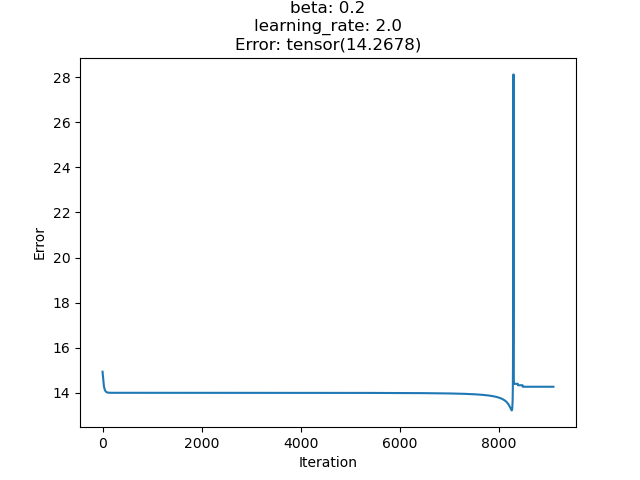
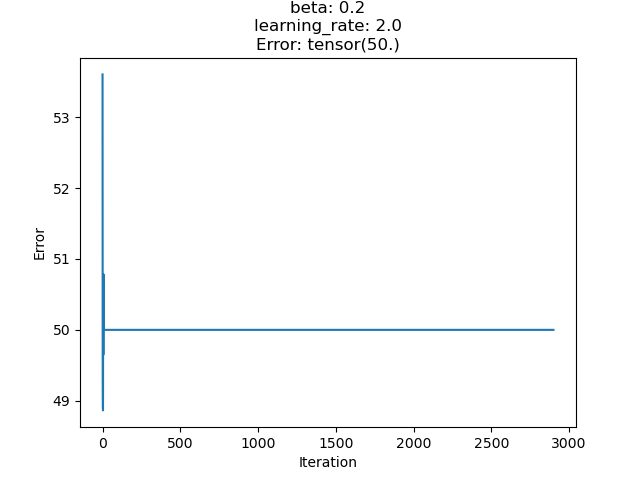
adds mnist stuff, but not working on mnist yet

diff --git a/main.py b/main.py
@@ -5,8 +5,12 @@ from utils import HopfieldEnergy, HopfieldUpdate
 import torch
 import argparse
 import matplotlib.pyplot as plt
+import matplotlib.cm as cm
 import torchvision
 import torchvision.transforms as transforms
+from sklearn.manifold import TSNE
+import numpy as np
+from sklearn.manifold import TSNE
 
 parser = argparse.ArgumentParser()
 parser.add_argument("--input-size", type=int, default=50, help="Size of the input")
@@ -15,20 +19,16 @@ parser.add_argument("--hidden2-size", type=int, default=100, help="Size of the s
 parser.add_argument("--output-size", type=int, default=15, help="Size of the output")
 parser.add_argument("--free-steps", type=int, default=40, help="Number of free optimization steps")
 parser.add_argument("--nudge-steps", type=int, default=5, help="Number of nudge optimization steps")
-parser.add_argument("--learning-rate", type=float, default=15.0, help="Learning rate for optimization")
-parser.add_argument("--beta", type=float, default=4.0, help="Beta value for weight updates")
+parser.add_argument("--learning-rate", type=float, default=1.0, help="Learning rate for optimization")
+parser.add_argument("--beta", type=float, default=1.0, help="Beta value for weight updates")
 parser.add_argument("--batch-dim", type=int, default=15, help="Batch dimension")
 parser.add_argument("--n-iters", type=int, default=3000, help="Number of iterations for optimization")
 parser.add_argument("--seed", type=int, default=0, help="Random seed")
 parser.add_argument("--init", type=str, default="random", help="Initialization method for weights")
 parser.add_argument("--dataset", type=str, default="mnist", help="Dataset to use")
+parser.add_argument("--mr", type=float, default=0.1, help="Energy minimization rate")
 args = parser.parse_args()
 
-if args.dataset == "mnist":
-    # Load the MNIST dataset
-    transform = transforms.Compose([transforms.ToTensor(), transforms.Lambda(lambda x: x.view(-1))])
-    trainset = torchvision.datasets.MNIST(root='~/datasets', train=True, download=True, transform=transform)
-    trainloader = torch.utils.data.DataLoader(trainset, batch_size=4, shuffle=True, num_workers=2)
 
 input_size = args.input_size
 hidden1_size = args.hidden1_size
@@ -36,19 +36,34 @@ hidden2_size = args.hidden2_size
 output_size = args.output_size
 free_steps = args.free_steps
 nudge_steps = args.nudge_steps
-learning_rate = args.learning_rate
-beta = args.beta
+learning_rate = args.learning_rate # 1 - 200
+beta = args.beta # 1-40
 batch_dim = args.batch_dim
 n_iters = args.n_iters
+mr = args.mr #0.1
+
+if args.dataset == "mnist":
+    # Load the MNIST dataset
+    transform = transforms.Compose([transforms.ToTensor(), transforms.Lambda(lambda x: x.view(-1))])
+    trainset = torchvision.datasets.MNIST(root='~/datasets', train=True, download=True, transform=transform)
+    trainloader = torch.utils.data.DataLoader(trainset, batch_size=batch_dim, shuffle=True, num_workers=2)
+    testset = torchvision.datasets.MNIST(root='~/datasets', train=False, download=True, transform=transform)
+    testloader = torch.utils.data.DataLoader(testset, batch_size=batch_dim, shuffle=False, num_workers=2)
 
 # Define the fixed random input x
-x = torch.randn(batch_dim,input_size)
-# x = (torch.rand(batch_dim,input_size)<0.02).float()*torch.randn(batch_dim,input_size)
-target = torch.zeros(batch_dim,output_size)
-for idx in range(batch_dim):
-    target[idx,idx]=1
-# print(target)
-# assert(0)
+if args.dataset == "random":
+    x = torch.randn(batch_dim,input_size)
+    t = torch.tensor([i%output_size for i in range(batch_dim)],dtype=torch.long)
+elif args.dataset == "mnist":
+    for batch in trainloader: # Get one MNIST batch
+        x,t = batch
+        break
+else:
+    raise ValueError("Invalid dataset")
+
+target = torch.nn.functional.one_hot(t, num_classes=output_size)
+
+
 
 # Define the optimizer
 
@@ -57,16 +72,21 @@ model = HopfieldEnergy(input_size, hidden1_size, hidden2_size, output_size, beta
 
 
 # Optimization loop
+print("\n\n")
 print("beta: ",beta)
 print("learning_rate: ",learning_rate)
 error = []
 
-# for itr,batch in enumerate(trainloader):
-#     data = batch[0]
+###############
+# Training loop
+###############
+
+for itr in range(n_iters): # Random
+
+# for itr,batch in enumerate(trainloader): # MNIST
+#     x = batch[0]
 #     target = torch.nn.functional.one_hot(batch[1], num_classes=10)
 
-
-for itr in range(n_iters):
     energies = []  # List to store the energy values
 
     # Initialize internal state variables
@@ -81,7 +101,7 @@ for itr in range(n_iters):
     else:
         raise ValueError("Invalid initialization method")
 
-    optimizer = optim.SGD([h1, h2, y], lr=0.1)
+    optimizer = optim.SGD([h1, h2, y], lr=mr)
 
     for step in range(free_steps):
         optimizer.zero_grad()
@@ -102,9 +122,13 @@ for itr in range(n_iters):
     h2_free = h2.detach().clone()
     y_free = y.detach().clone()
 
-    if (itr+1)%(n_iters//20) == 0:
+
+    if (itr+1)%(n_iters//5) == 0:
+        print("Iteration: ",itr+1)
         # print("Output: ",y_free)
         print("Error: ",(y_free-target).pow(2).sum())
+        prediction = torch.argmax(y_free, dim=1)
+        print("Accuracy: ",torch.mean((prediction==t).float()))
 
     error.append((y_free-target).pow(2).sum())
 
@@ -144,22 +168,83 @@ for itr in range(n_iters):
     model.b2.weight.data += learning_rate * b2_update
     model.b3.weight.data += learning_rate * b3_update
 
-    # if itr%100==0:
-    #     # Plot the energies
-    #     plt.plot(energies,label=str(itr))
-    #     plt.xlabel('Step')
-    #     plt.ylabel('Energy')
-    #     plt.title('Energy vs. Step')
-    #     plt.legend()
-    #     plt.savefig('energy_vs_step.png')
+    if itr%100==0:
+        # Plot the energies
+        plt.plot(energies,label=str(itr))
+        plt.xlabel('Step')
+        plt.ylabel('Energy')
+        plt.title('Energy vs. Step')
+        plt.legend()
+        plt.savefig('energy_vs_step.png')
 
-    #     # Plot the error
-    #     plt.figure()
-    #     plt.plot(error)
-    #     plt.xlabel('Iteration')
-    #     plt.ylabel('Error')
-    #     plt.title('Error vs. Iteration\nbeta: '+str(beta)+'\nlearning_rate: '+str(learning_rate)+'\nError: '+str(error[-1]))
-    #     plt.savefig('error_vs_iteration_beta_'+str(beta)+'_lr_'+str(learning_rate)+'.png')
-    #     plt.close()
+        # Plot the error
+        plt.figure()
+        plt.plot(error)
+        plt.xlabel('Iteration')
+        plt.ylabel('Error')
+        plt.title('Error vs. Iteration\nbeta: '+str(beta)+'\nlearning_rate: '+str(learning_rate)+'\nError: '+str(error[-1]))
+        plt.savefig('error_vs_iteration_beta_'+str(beta)+'_lr_'+str(learning_rate)+'.png')
+        plt.close()
             
-        
+######################################################################################################
+# Generate random batch of points
+n_samples = 100
+
+x_test = x.repeat(n_samples,1).clone()
+# target_test = target.repeat(n_samples,1)
+
+h1 = torch.rand(batch_dim*n_samples, hidden1_size, requires_grad=True)
+h2 = torch.rand(batch_dim*n_samples, hidden2_size, requires_grad=True)
+y = torch.rand(batch_dim*n_samples, output_size, requires_grad=True)
+
+optimizer = optim.SGD([h1, h2, y], lr=mr)
+
+for step in range(free_steps):
+    optimizer.zero_grad()
+    energy = model(x_test, h1, h2, y)
+    energy.backward()
+    optimizer.step()
+
+    # Restrict values between 0 and 1
+    h1.data = torch.clamp(h1.data, 0, 1)
+    h2.data = torch.clamp(h2.data, 0, 1)
+    y.data = torch.clamp(y.data, 0, 1)
+
+    energies.append(energy.item())  # Save the energy value
+    # print(f'Step {step}, Energy: {energy.item()}')
+
+# Save copy of the internal state variables
+h1_free = h1.detach().clone()
+h2_free = h2.detach().clone()
+y_free = y.detach().clone()
+
+# print(y_free)
+
+# t-SNE plot to visualize clusters in h1_free
+colors = [t[i % batch_dim] for i in range(batch_dim * n_samples)]  # Example color vector
+cmap = cm.get_cmap('viridis')
+s, alpha = 2, 0.02
+
+X_embedded_h1 = TSNE(n_components=2).fit_transform(h1_free.numpy())
+plt.subplot(1, 3, 1)
+plt.scatter(X_embedded_h1[:, 0], X_embedded_h1[:, 1], c=colors, s=s, alpha=alpha, cmap=cmap)
+plt.title('hidden 1')
+plt.gca().set_aspect('equal')
+
+# t-SNE plot to visualize clusters in h2_free
+X_embedded_h2 = TSNE(n_components=2).fit_transform(h2_free.numpy())
+plt.subplot(1, 3, 2)
+plt.scatter(X_embedded_h2[:, 0], X_embedded_h2[:, 1], c=colors, s=s, alpha=alpha, cmap=cmap)
+plt.title('hidden 2')
+plt.gca().set_aspect('equal')
+
+# t-SNE plot to visualize clusters in y_free
+X_embedded_y = TSNE(n_components=2).fit_transform(y_free.numpy())
+plt.subplot(1, 3, 3)
+plt.scatter(X_embedded_y[:, 0], X_embedded_y[:, 1], c=colors, s=s, alpha=alpha, cmap=cmap)
+plt.title('output')
+plt.gca().set_aspect('equal')
+
+plt.tight_layout()
+plt.figure(figsize=(10, 6))  # Adjust the figure size
+plt.savefig('clusters.png')

diff --git a/utils.py b/utils.py
@@ -21,33 +21,58 @@ class HopfieldEnergy(nn.Module):
 
         self.beta = beta
 
-        self.F = nn.MSELoss()
+        # self.F = nn.MSELoss()
 
+
+    # def forward(self, x, h1, h2, y, target=None): # Testing
+
+    #     # Hopfield energy (layered)
+    #     # energy1 = -(x @ self.w1 @ h1.t() + self.b1 @ h1.t()) 
+    #     # energy2 = -(h1 @ self.w2 @ h2.t() + self.b2 @ h2.t())
+    #     # energy3 = -(h2 @ self.w3 @ y.t() + self.b3 @ y.t())
+
+    #     energy1 = (-self.w1(x, h1) - self.b1(h1)).squeeze()
+    #     energy2 = (-self.w2(h1, h2) - self.b2(h2)).squeeze()
+    #     energy3 = (-self.w3(h2, y) - self.b3(y)).squeeze()
+
+    #     print(energy1.shape)
+    #     print(energy2.shape)
+    #     print(energy3.shape)
+    #     # L2 penalty
+    #     l2 = h1.pow(2).sum(dim=1) + h2.pow(2).sum(dim=1) + y.pow(2).sum()
+    #     # l2 = h1.pow(2).sum() + h2.pow(2).sum() + y.pow(2).sum() # Old version
+    #     print(l2.shape)
+    #     # Total energy
+    #     E = energy1 + energy2 + energy3 + 10*l2
+    #     print(E.shape)
+    #     # Nudge energy
+    #     if target is not None:
+    #         F = 10*self.beta*0.5*(y-target).pow(2).sum() #self.F(y, target)
+    #         E += F
+    #     print(E.shape)
+    #     assert(0)
+    #     return E.sum() #E.mean() # 
 
     def forward(self, x, h1, h2, y, target=None):
 
         # Hopfield energy (layered)
-        # energy1 = -(x @ self.w1 @ h1.t() + self.b1 @ h1.t()) 
-        # energy2 = -(h1 @ self.w2 @ h2.t() + self.b2 @ h2.t())
-        # energy3 = -(h2 @ self.w3 @ y.t() + self.b3 @ y.t())
+        energy1 = (-self.w1(x, h1) - self.b1(h1)).squeeze()
+        energy2 = (-self.w2(h1, h2) - self.b2(h2)).squeeze()
+        energy3 = (-self.w3(h2, y) - self.b3(y)).squeeze()
 
-        energy1 = -self.w1(x, h1) - self.b1(h1)
-        energy2 = -self.w2(h1, h2) - self.b2(h2)
-        energy3 = -self.w3(h2, y) - self.b3(y)
-
-        
         # L2 penalty
-        l2 = h1.pow(2).sum() + h2.pow(2).sum() + y.pow(2).sum()
+        l2 = h1.pow(2).sum(dim=1) + h2.pow(2).sum(dim=1) + y.pow(2).sum(dim=1)
+        # l2 = h1.pow(2).sum() + h2.pow(2).sum() + y.pow(2).sum() # Old version
 
         # Total energy
-        E = energy1 + energy2 + energy3 + l2
+        E = energy1 + energy2 + energy3 + 0.5*l2
 
         # Nudge energy
         if target is not None:
-            F = self.beta*0.5*(y-target).pow(2).sum() #self.F(y, target)
+            F = self.beta*0.5*(y-target).pow(2).sum(dim=1) #self.F(y, target)
             E += F
 
-        return E.mean()
+        return E.sum() #E.mean() # I think sum makes more sense for minimizing energy. We aren't really trying to average over the batch dimension.
 
 class HopfieldUpdate(nn.Module):
     def __init__(self,beta=1.0):
